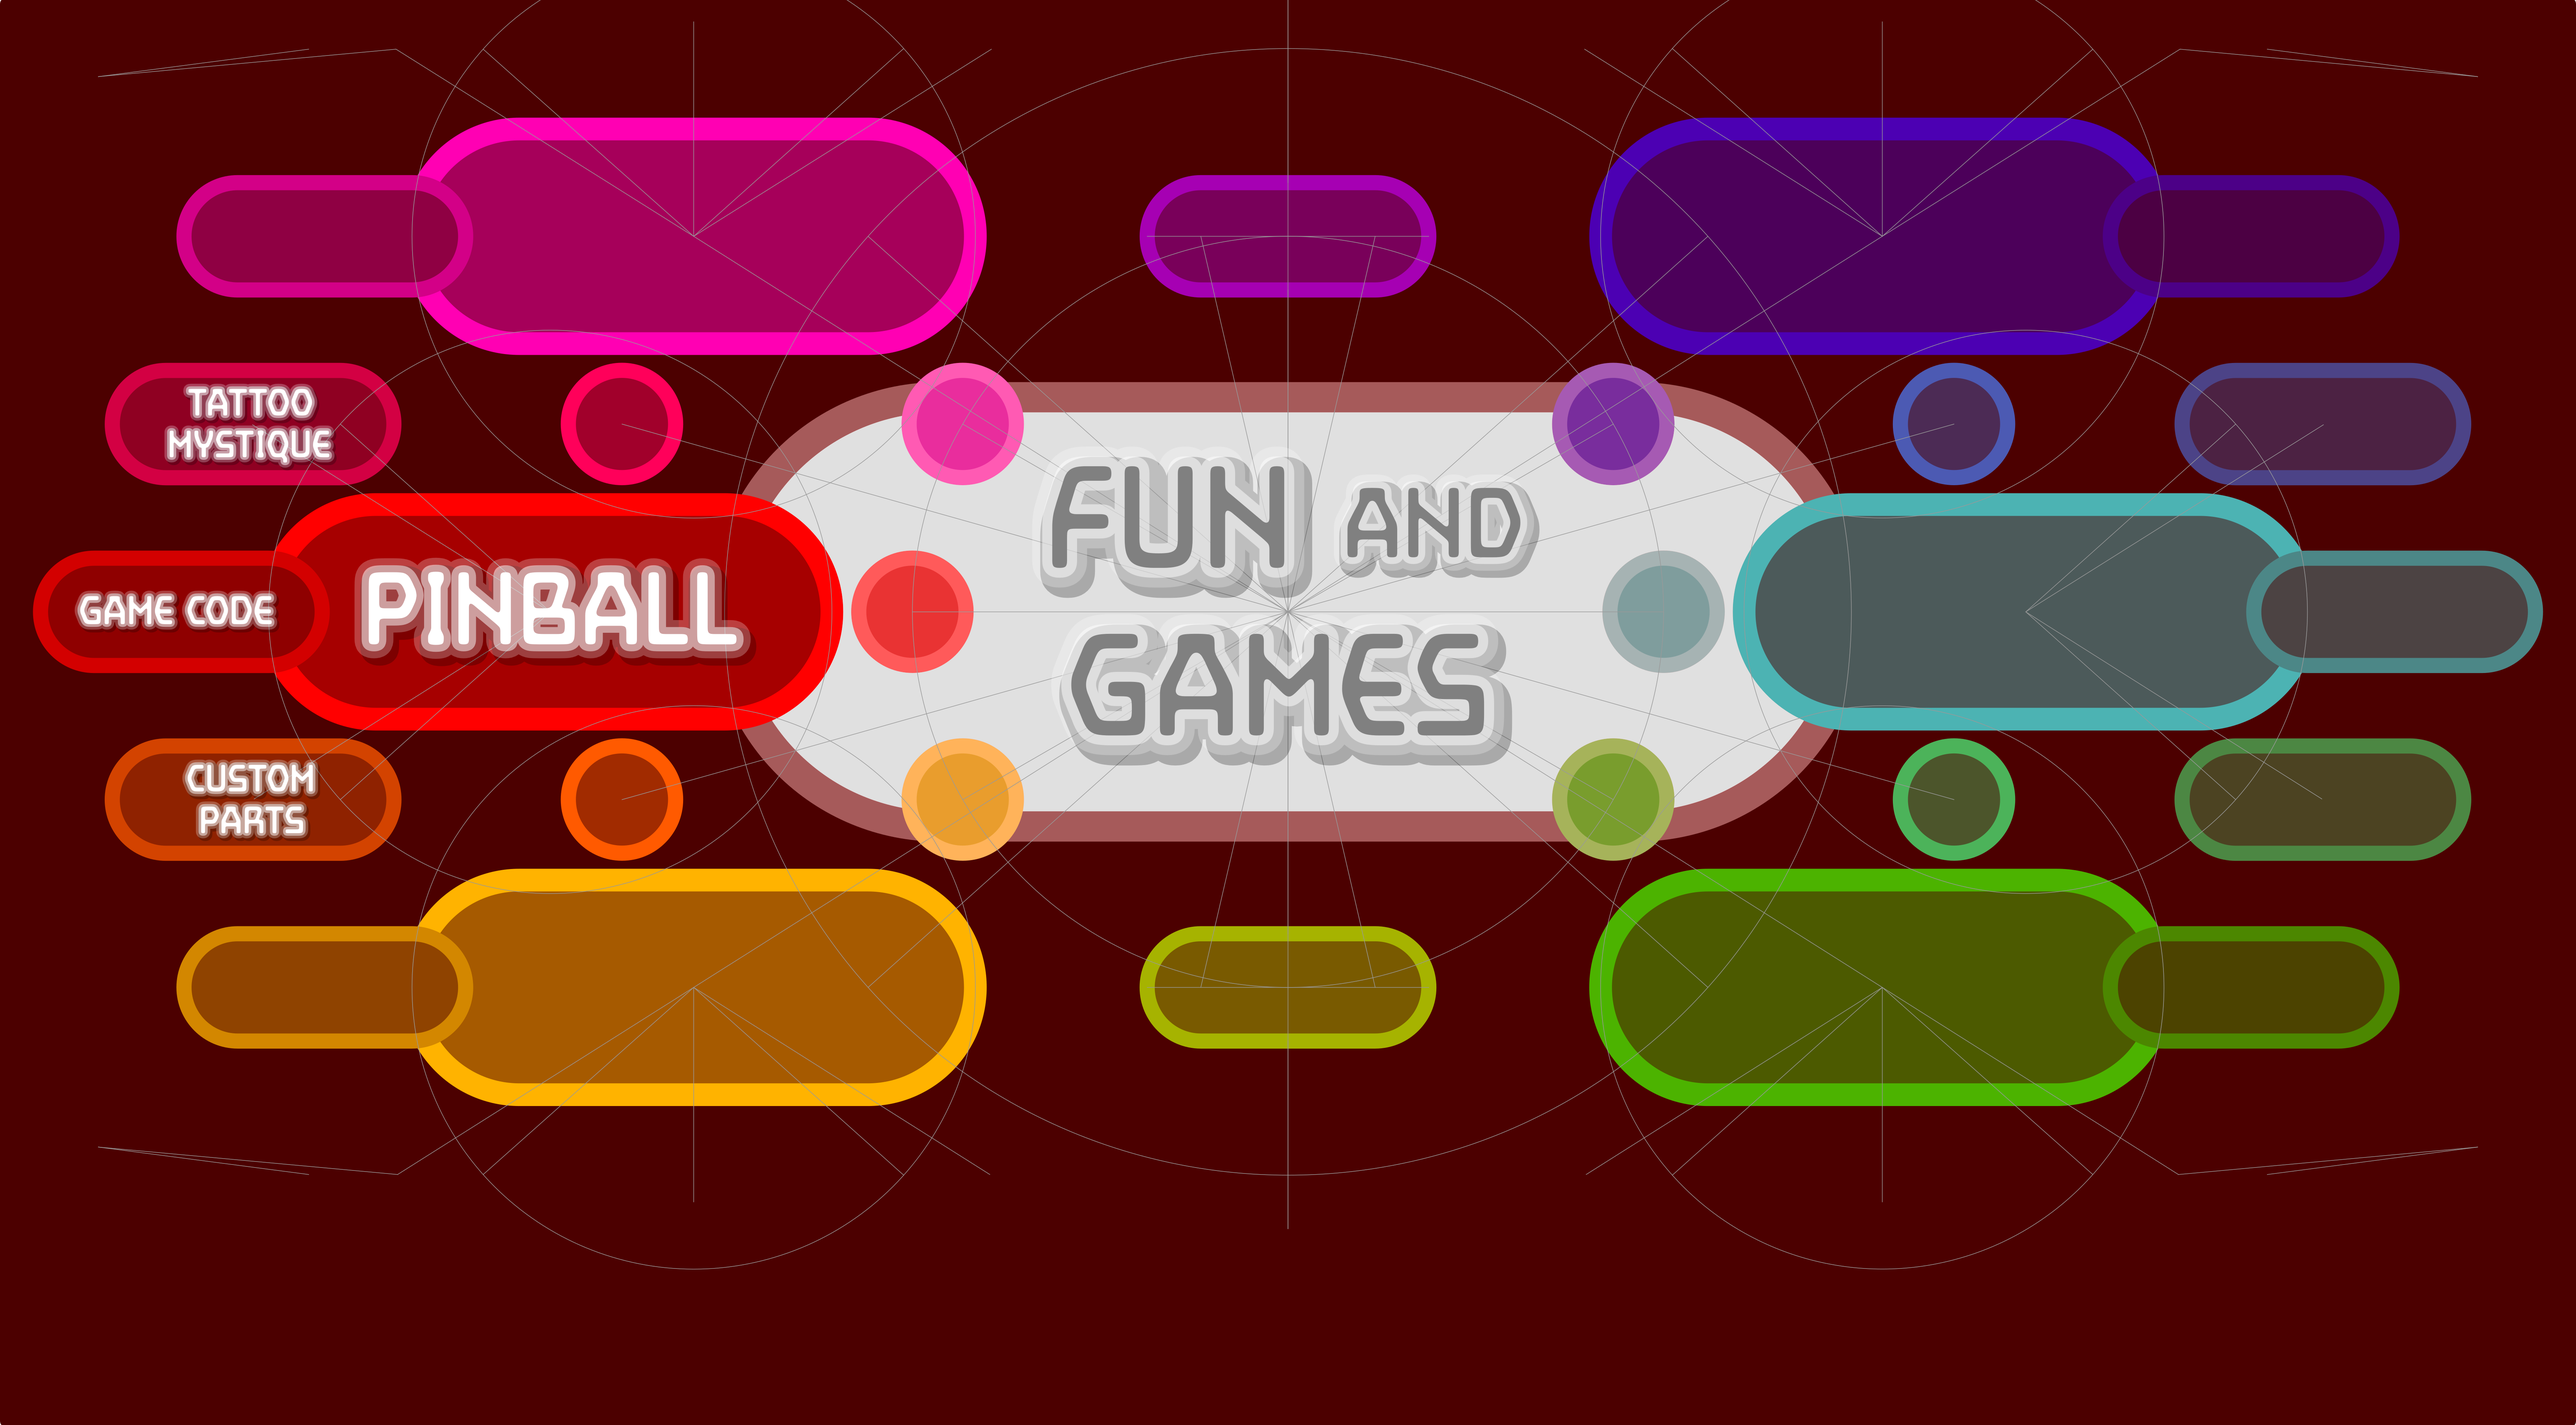
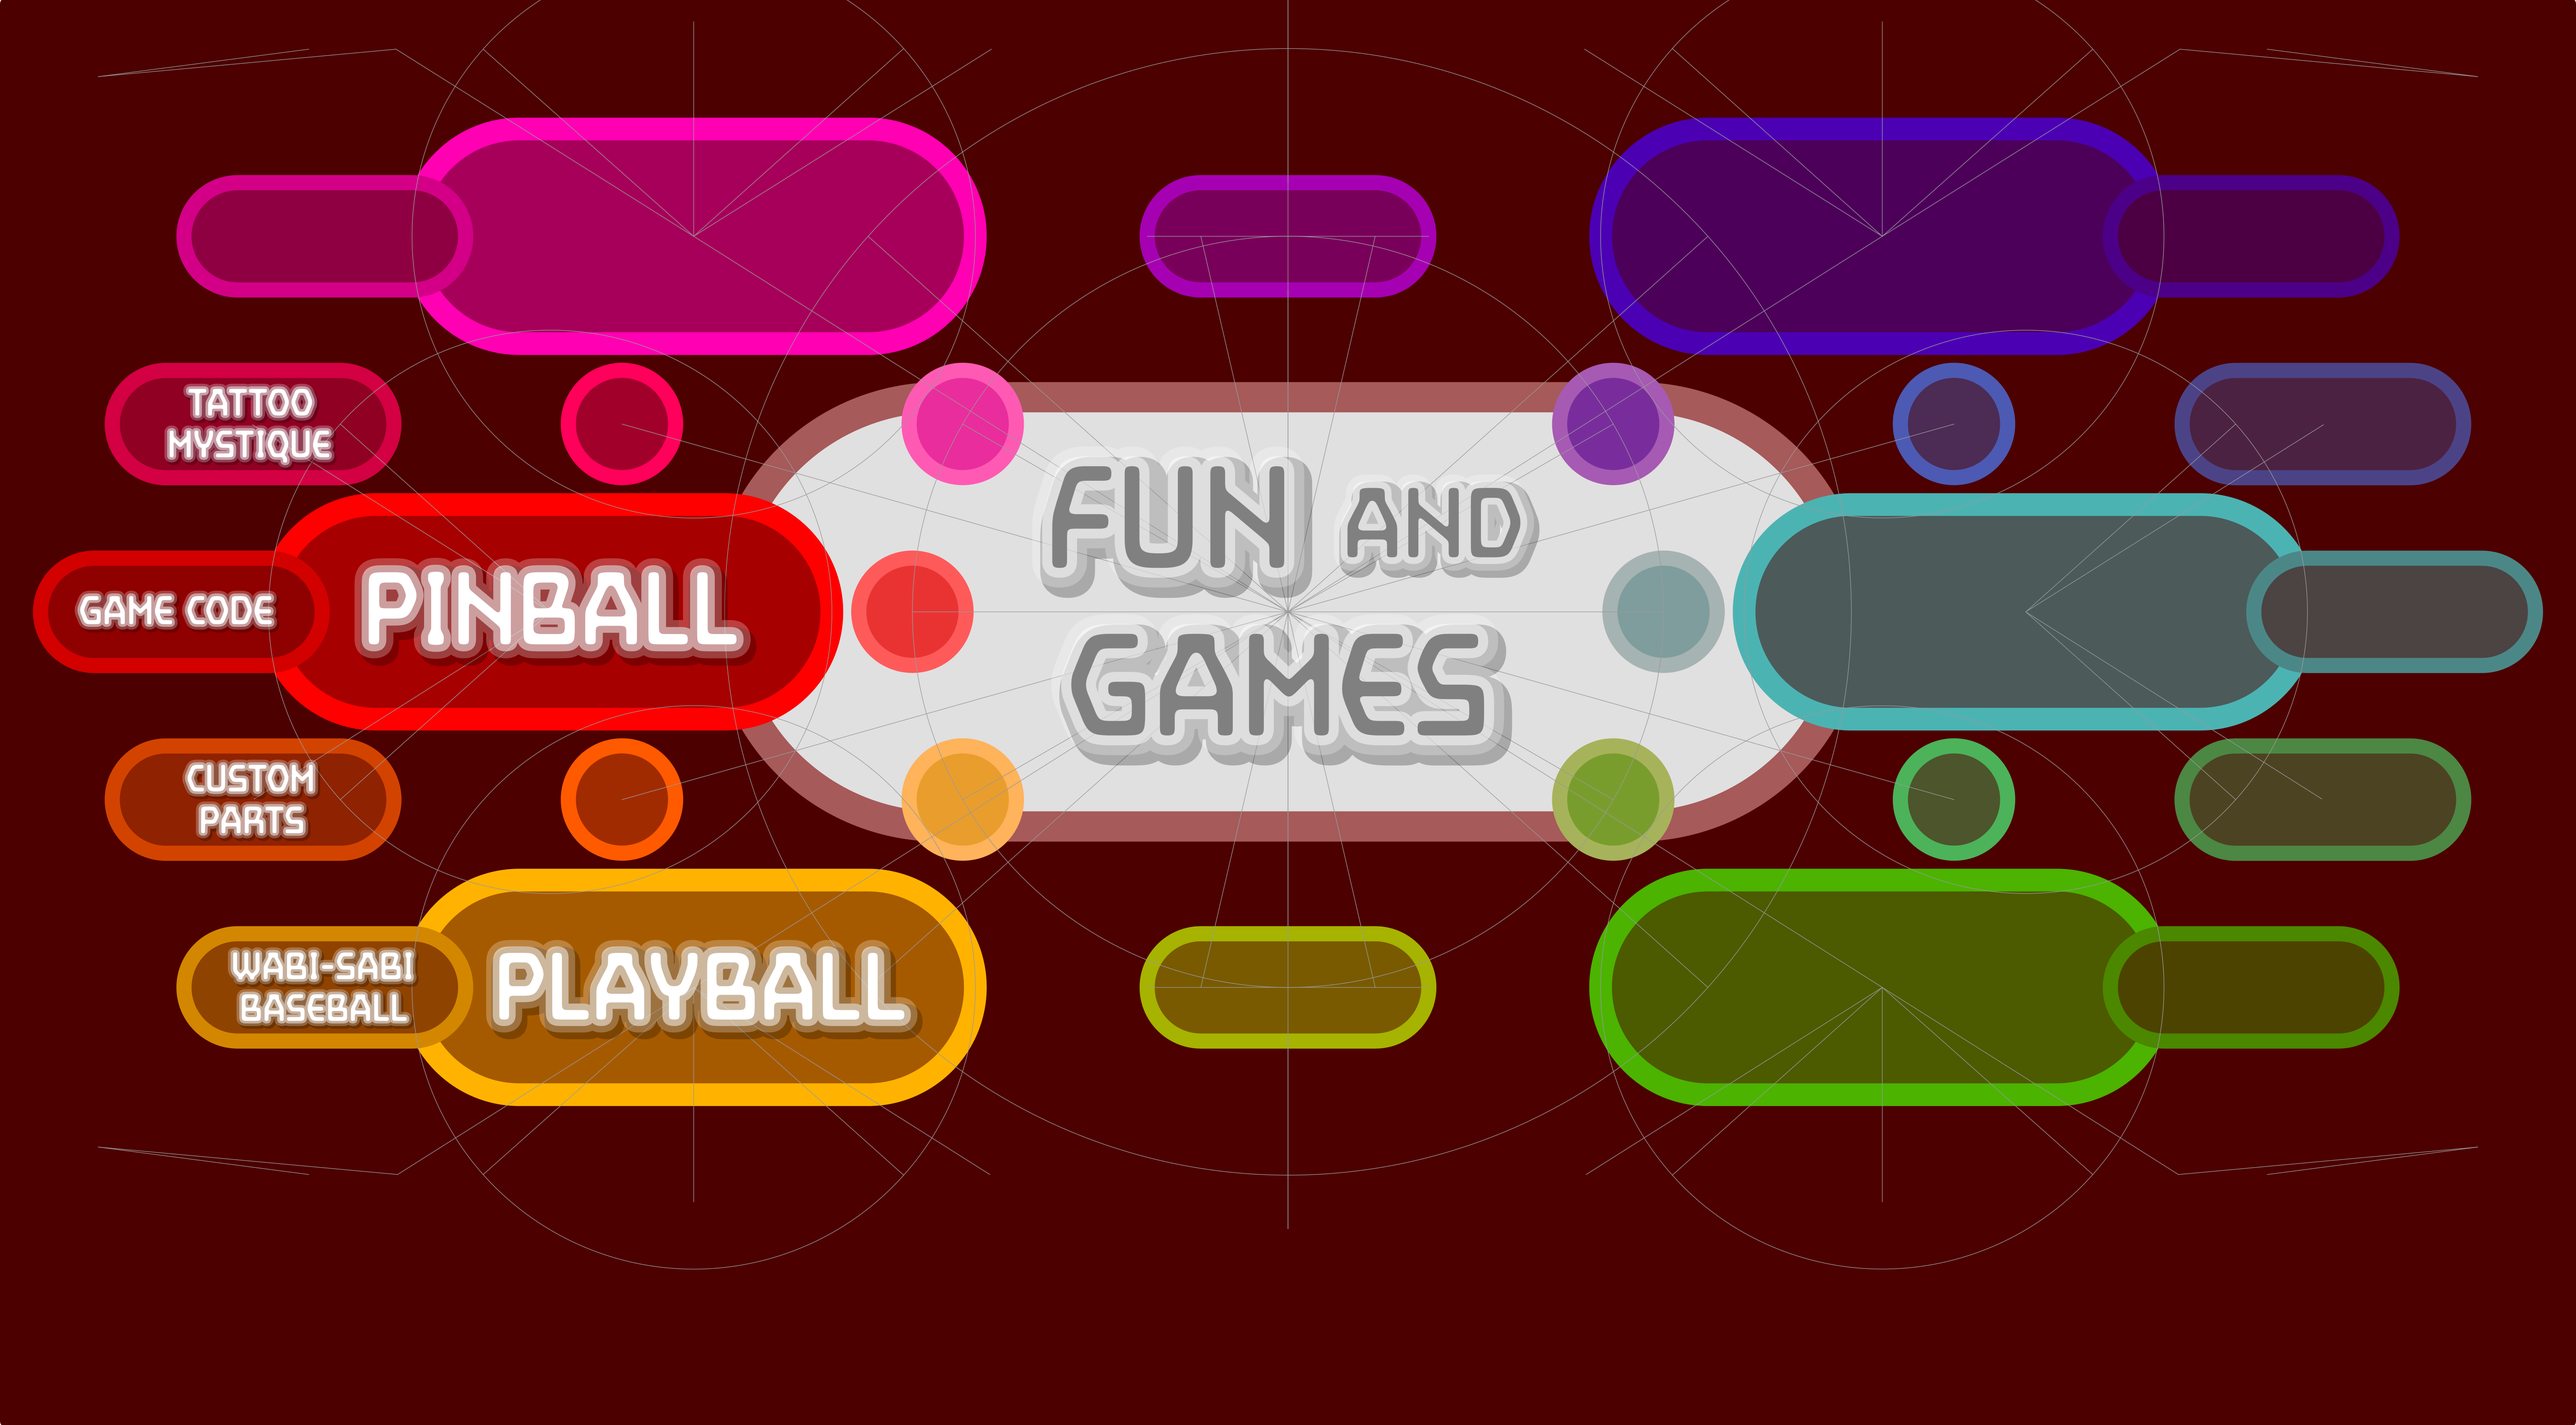
Wabi Sabi

Changed region(s): [[0.0625, 0.6535, 0.375, 0.7469]]

diff --git a/WEBSITE/GoogleDocs/GoogleDocs_PROJECT_CatFoodBowl_1.html b/WEBSITE/GoogleDocs/GoogleDocs_PROJECT_CatFoodBowl_1.html
@@ -1,0 +1,36 @@
+<!DOCTYPE html>
+<html lang="en">
+<head>
+    <meta charset="UTF-8">
+    <meta name="viewport" content="width=device-width, initial-scale=1.0">
+    <title>Cat Food Bowl > Culinary > FOOD > Basic Human Needs</title>
+    <style>
+        body {
+            background-color: #f0f0ff;
+            margin: 0;
+            display: flex;
+            flex-direction: column;
+            align-items: center;
+            height: 100vh;
+        }
+        iframe {
+            width: 100%;
+            height: 750px;
+            border: none;
+            margin-top: 20px; /* Optional: Add some margin from the top */
+        }
+        img {
+            margin-top: 20px; /* Optional: Add some margin from the top */
+        }
+    </style>
+</head>
+<body>
+    <iframe src="https://docs.google.com/document/d/e/2PACX-1vTua3TsZdlSVRY0VezekmHy-rPOndh125LSNq6Tp_25mnFITqEh2Z4a2j2X6KhBeXAycUAmInuZ6peV/pub?embedded=true"></iframe>
+    <img src="images/PortalMindMap_NAV_FOOD_1.png" usemap="#image-nav" width="1728">
+    <map name="image-nav">
+        <area target="_blank" alt="A" title="A" href="http://www.space-eight.com/PortalMindMap_MTWABP_1.html" coords="131,66,308,136" shape="rect">
+        <area target="_blank" alt="B" title="B" href="http://www.space-eight.com/PortalMindMap_BasicHumanNeeds_1.html" coords="414,64,588,137" shape="rect">
+        <area target="_blank" alt="C" title="C" href="http://www.space-eight.com/GoogleDocs/GoogleDocs_BasicHumanNeeds_FOOD_1.html" coords="695,64,867,137" shape="rect">
+    </map>
+</body>
+</html> 

diff --git a/WEBSITE/GoogleDocs/GoogleDocs_PROJECT_WabiSabiBaseball_1 .html b/WEBSITE/GoogleDocs/GoogleDocs_PROJECT_WabiSabiBaseball_1 .html
@@ -1,0 +1,36 @@
+<!DOCTYPE html>
+<html lang="en">
+<head>
+    <meta charset="UTF-8">
+    <meta name="viewport" content="width=device-width, initial-scale=1.0">
+    <title>Tattoo Mystique > HOMEBREW > PINBALL > Fun And Games</title>
+    <style>
+        body {
+            background-color: #4c0000;
+            margin: 0;
+            display: flex;
+            flex-direction: column;
+            align-items: center;
+            height: 100vh;
+        }
+        iframe {
+            width: 100%;
+            height: 750px;
+            border: none;
+            margin-top: 20px; /* Optional: Add some margin from the top */
+        }
+        img {
+            margin-top: 20px; /* Optional: Add some margin from the top */
+        }
+    </style>
+</head>
+<body>
+    <iframe src="https://docs.google.com/document/d/e/2PACX-1vQVWQLpVPH1aGXFOW9P3SB0Fz9sL4-rie_qbF_rG0LVxMJcxes5gPf63wLz92bzNPPFOtnb-odX_mOy/pub?embedded=true"></iframe>
+    <img src="images/PortalMindMap_NAV_PINBALL_1.png" usemap="#image-nav" width="1728">
+    <map name="image-nav">
+        <area target="_blank" alt="A" title="A" href="http://www.space-eight.com/PortalMindMap_MTWABP_1.html" coords="131,66,308,136" shape="rect">
+        <area target="_blank" alt="B" title="B" href="http://www.space-eight.com/PortalMindMap_FunAndGames_1.html" coords="414,64,588,137" shape="rect">
+        <area target="_blank" alt="C" title="C" href="http://www.space-eight.com/GoogleDocs/GoogleDocs_FunAndGames_PINBALL_1.html" coords="695,64,867,137" shape="rect">
+    </map>
+</body>
+</html> 
